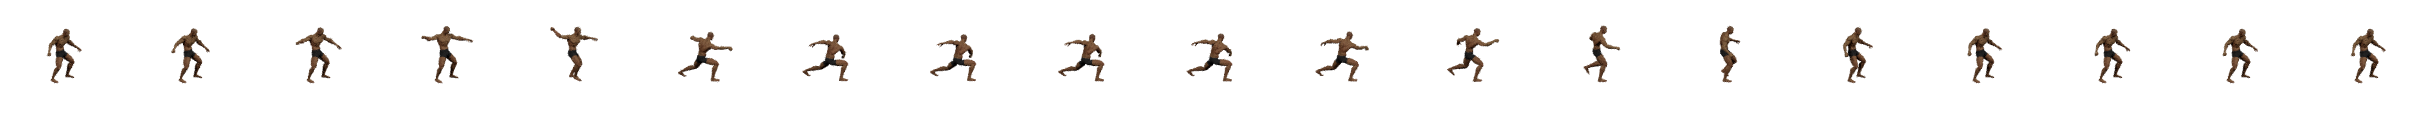
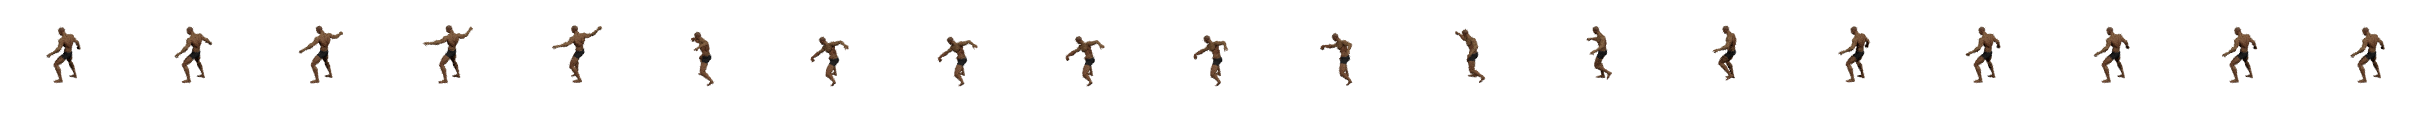
Stabilize sword attack facing

diff --git a/character_pipeline/render_standard_melee_weapon.py b/character_pipeline/render_standard_melee_weapon.py
@@ -255,6 +255,46 @@ def set_character_holdout(mannequin: bpy.types.Object, enabled: bool) -> None:
     mannequin.hide_render = False
 
 
+def sword_parts() -> list[bpy.types.Object]:
+    return list(
+        bpy.data.collections["Dreadbound Standard Melee Sword"].objects
+    )
+
+
+def set_sword_visibility(visible: bool) -> None:
+    for part in sword_parts():
+        part.hide_render = not visible
+
+
+def pelvis_heading(armature: bpy.types.Object) -> float:
+    """Return the actor heading encoded by the pelvis, in armature space.
+
+    Sword_Attack turns the pelvis roughly 70 degrees midway through the take.
+    That is useful in a free-camera 3D animation, but in a four-direction
+    sprite it crosses the side-view silhouette and makes the actor appear to
+    attack backwards.  Pelvis local X is the stable horizontal facing axis for
+    this UAL rig.
+    """
+
+    facing = armature.pose.bones["pelvis"].matrix.to_3x3().col[0]
+    return math.atan2(facing.x, -facing.y)
+
+
+def stabilized_world_matrix(
+    armature: bpy.types.Object,
+    base_matrix: Matrix,
+    direction_yaw: float,
+    reference_heading: float | None,
+) -> Matrix:
+    correction = 0.0
+    if reference_heading is not None:
+        correction = reference_heading - pelvis_heading(armature)
+    return (
+        Matrix.Rotation(math.radians(direction_yaw) + correction, 4, "Z")
+        @ base_matrix
+    )
+
+
 def set_reference_visibility() -> None:
     keep = {"Armature", "Mannequin", "Standard Melee Sword Root"}
     for obj in bpy.context.scene.objects:
@@ -290,7 +330,10 @@ def pack_horizontal(frame_paths: list[Path], atlas_path: Path) -> None:
         bpy.data.images.remove(image)
 
 
-def render(output: Path, preview_output: Path | None) -> dict:
+def render(
+    output: Path,
+    preview_output: Path | None,
+) -> dict:
     scene = bpy.context.scene
     armature = bpy.data.objects["Armature"]
     mannequin = bpy.data.objects["Mannequin"]
@@ -313,10 +356,17 @@ def render(output: Path, preview_output: Path | None) -> dict:
     for logical_name, spec in SWORD_ACTIONS.items():
         assign_action(armature, spec["source"])
         frames = list(range(spec["start"], spec["end"] + 1, spec["step"]))
+        scene.frame_set(frames[0])
+        reference_heading = (
+            pelvis_heading(armature)
+            if logical_name == "attack_melee"
+            else None
+        )
         manifest["animations"][logical_name] = {
             "frames": len(frames),
             "loop": spec["loop"],
             "source_action": spec["source"],
+            "facing_stabilized": reference_heading is not None,
         }
         for direction, yaw in DIRECTIONS.items():
             paths = []
@@ -324,10 +374,14 @@ def render(output: Path, preview_output: Path | None) -> dict:
             frame_dir.mkdir(parents=True, exist_ok=True)
             for index, frame in enumerate(frames):
                 scene.frame_set(frame)
-                armature.matrix_world = (
-                    Matrix.Rotation(math.radians(yaw), 4, "Z") @ base_armature_matrix
+                armature.matrix_world = stabilized_world_matrix(
+                    armature,
+                    base_armature_matrix,
+                    yaw,
+                    reference_heading,
                 )
                 set_character_holdout(mannequin, True)
+                set_sword_visibility(True)
                 path = frame_dir / f"{index:03d}.png"
                 scene.render.filepath = str(path)
                 bpy.ops.render.render(write_still=True)
@@ -345,22 +399,16 @@ def render(output: Path, preview_output: Path | None) -> dict:
                 Matrix.Rotation(math.radians(yaw), 4, "Z") @ base_armature_matrix
             )
             set_character_holdout(mannequin, False)
+            set_sword_visibility(True)
             path = preview_output / f"standard_sword_idle_{direction}.png"
             scene.render.filepath = str(path)
             bpy.ops.render.render(write_still=True)
-            sword_parts = [
-                obj
-                for obj in bpy.data.collections["Dreadbound Standard Melee Sword"].objects
-                if obj != sword
-            ]
-            for part in sword_parts:
-                part.hide_render = True
+            set_sword_visibility(False)
             scene.render.filepath = str(
                 preview_output / f"mannequin_idle_{direction}.png"
             )
             bpy.ops.render.render(write_still=True)
-            for part in sword_parts:
-                part.hide_render = False
+            set_sword_visibility(True)
     with (output / "manifest.json").open("w", encoding="utf-8") as handle:
         json.dump(manifest, handle, ensure_ascii=False, indent=2)
         handle.write("\n")

diff --git a/character_pipeline/render_directional_sprites.py b/character_pipeline/render_directional_sprites.py
@@ -293,12 +293,20 @@ def set_yaw(
     objects: list[bpy.types.Object],
     base_matrices: dict[str, Matrix],
     degrees: float,
+    heading_correction: float = 0.0,
 ) -> None:
-    radians = math.radians(degrees)
+    radians = math.radians(degrees) + heading_correction
     rotation = Matrix.Rotation(radians, 4, "Z")
     for obj in objects:
         if obj.parent is None:
             obj.matrix_world = rotation @ base_matrices[obj.name]
+
+
+def pelvis_heading(armature: bpy.types.Object) -> float:
+    """Return the horizontal UAL pelvis heading in armature space."""
+
+    facing = armature.pose.bones["pelvis"].matrix.to_3x3().col[0]
+    return math.atan2(facing.x, -facing.y)
 
 
 def pack_horizontal(frame_paths: list[Path], atlas_path: Path) -> None:
@@ -359,14 +367,31 @@ def render(preset: dict, armature: bpy.types.Object, roots: list[bpy.types.Objec
         end = int(spec.get("end", round(action.frame_range[1])))
         step = max(1, int(spec.get("step", 1)))
         frames = list(range(start, end + 1, step))
-        manifest["animations"][logical_name] = {"frames": len(frames), "loop": bool(spec.get("loop", False))}
+        stabilize_heading = bool(spec.get("stabilize_pelvis_heading", False))
+        scene.frame_set(frames[0])
+        reference_heading = pelvis_heading(armature) if stabilize_heading else 0.0
+        manifest["animations"][logical_name] = {
+            "frames": len(frames),
+            "loop": bool(spec.get("loop", False)),
+            "facing_stabilized": stabilize_heading,
+        }
         for direction, yaw in DIRECTIONS.items():
             paths = []
             frame_dir = temp / logical_name / direction
             frame_dir.mkdir(parents=True, exist_ok=True)
             for index, frame in enumerate(frames):
                 scene.frame_set(frame)
-                set_yaw(roots, base_matrices, front_offset + yaw)
+                heading_correction = (
+                    reference_heading - pelvis_heading(armature)
+                    if stabilize_heading
+                    else 0.0
+                )
+                set_yaw(
+                    roots,
+                    base_matrices,
+                    front_offset + yaw,
+                    heading_correction,
+                )
                 path = frame_dir / f"{index:03d}.png"
                 scene.render.filepath = str(path)
                 bpy.ops.render.render(write_still=True)

diff --git a/character_pipeline/README.md b/character_pipeline/README.md
@@ -74,7 +74,12 @@ blender --background character_pipeline/dreadbound_weapon_actions.blend \
 
 The runtime copies the body sprite's animation, frame, and frame progress to
 the weapon layer every update. It never runs a second independent animation
-clock.
+clock. Both this exporter and the base-character preset stabilize the
+`Sword_Attack` pelvis heading against its first frame. This keeps the actor
+facing the selected side while preserving the original weight shift,
+upper-body motion, and arm swing. The body must still be rendered from the
+approved `Superhero_Male_FullBody` source; the embedded mannequin is only an
+occlusion reference and must never replace the published character layer.
 
 ## Direction and camera contract
 
